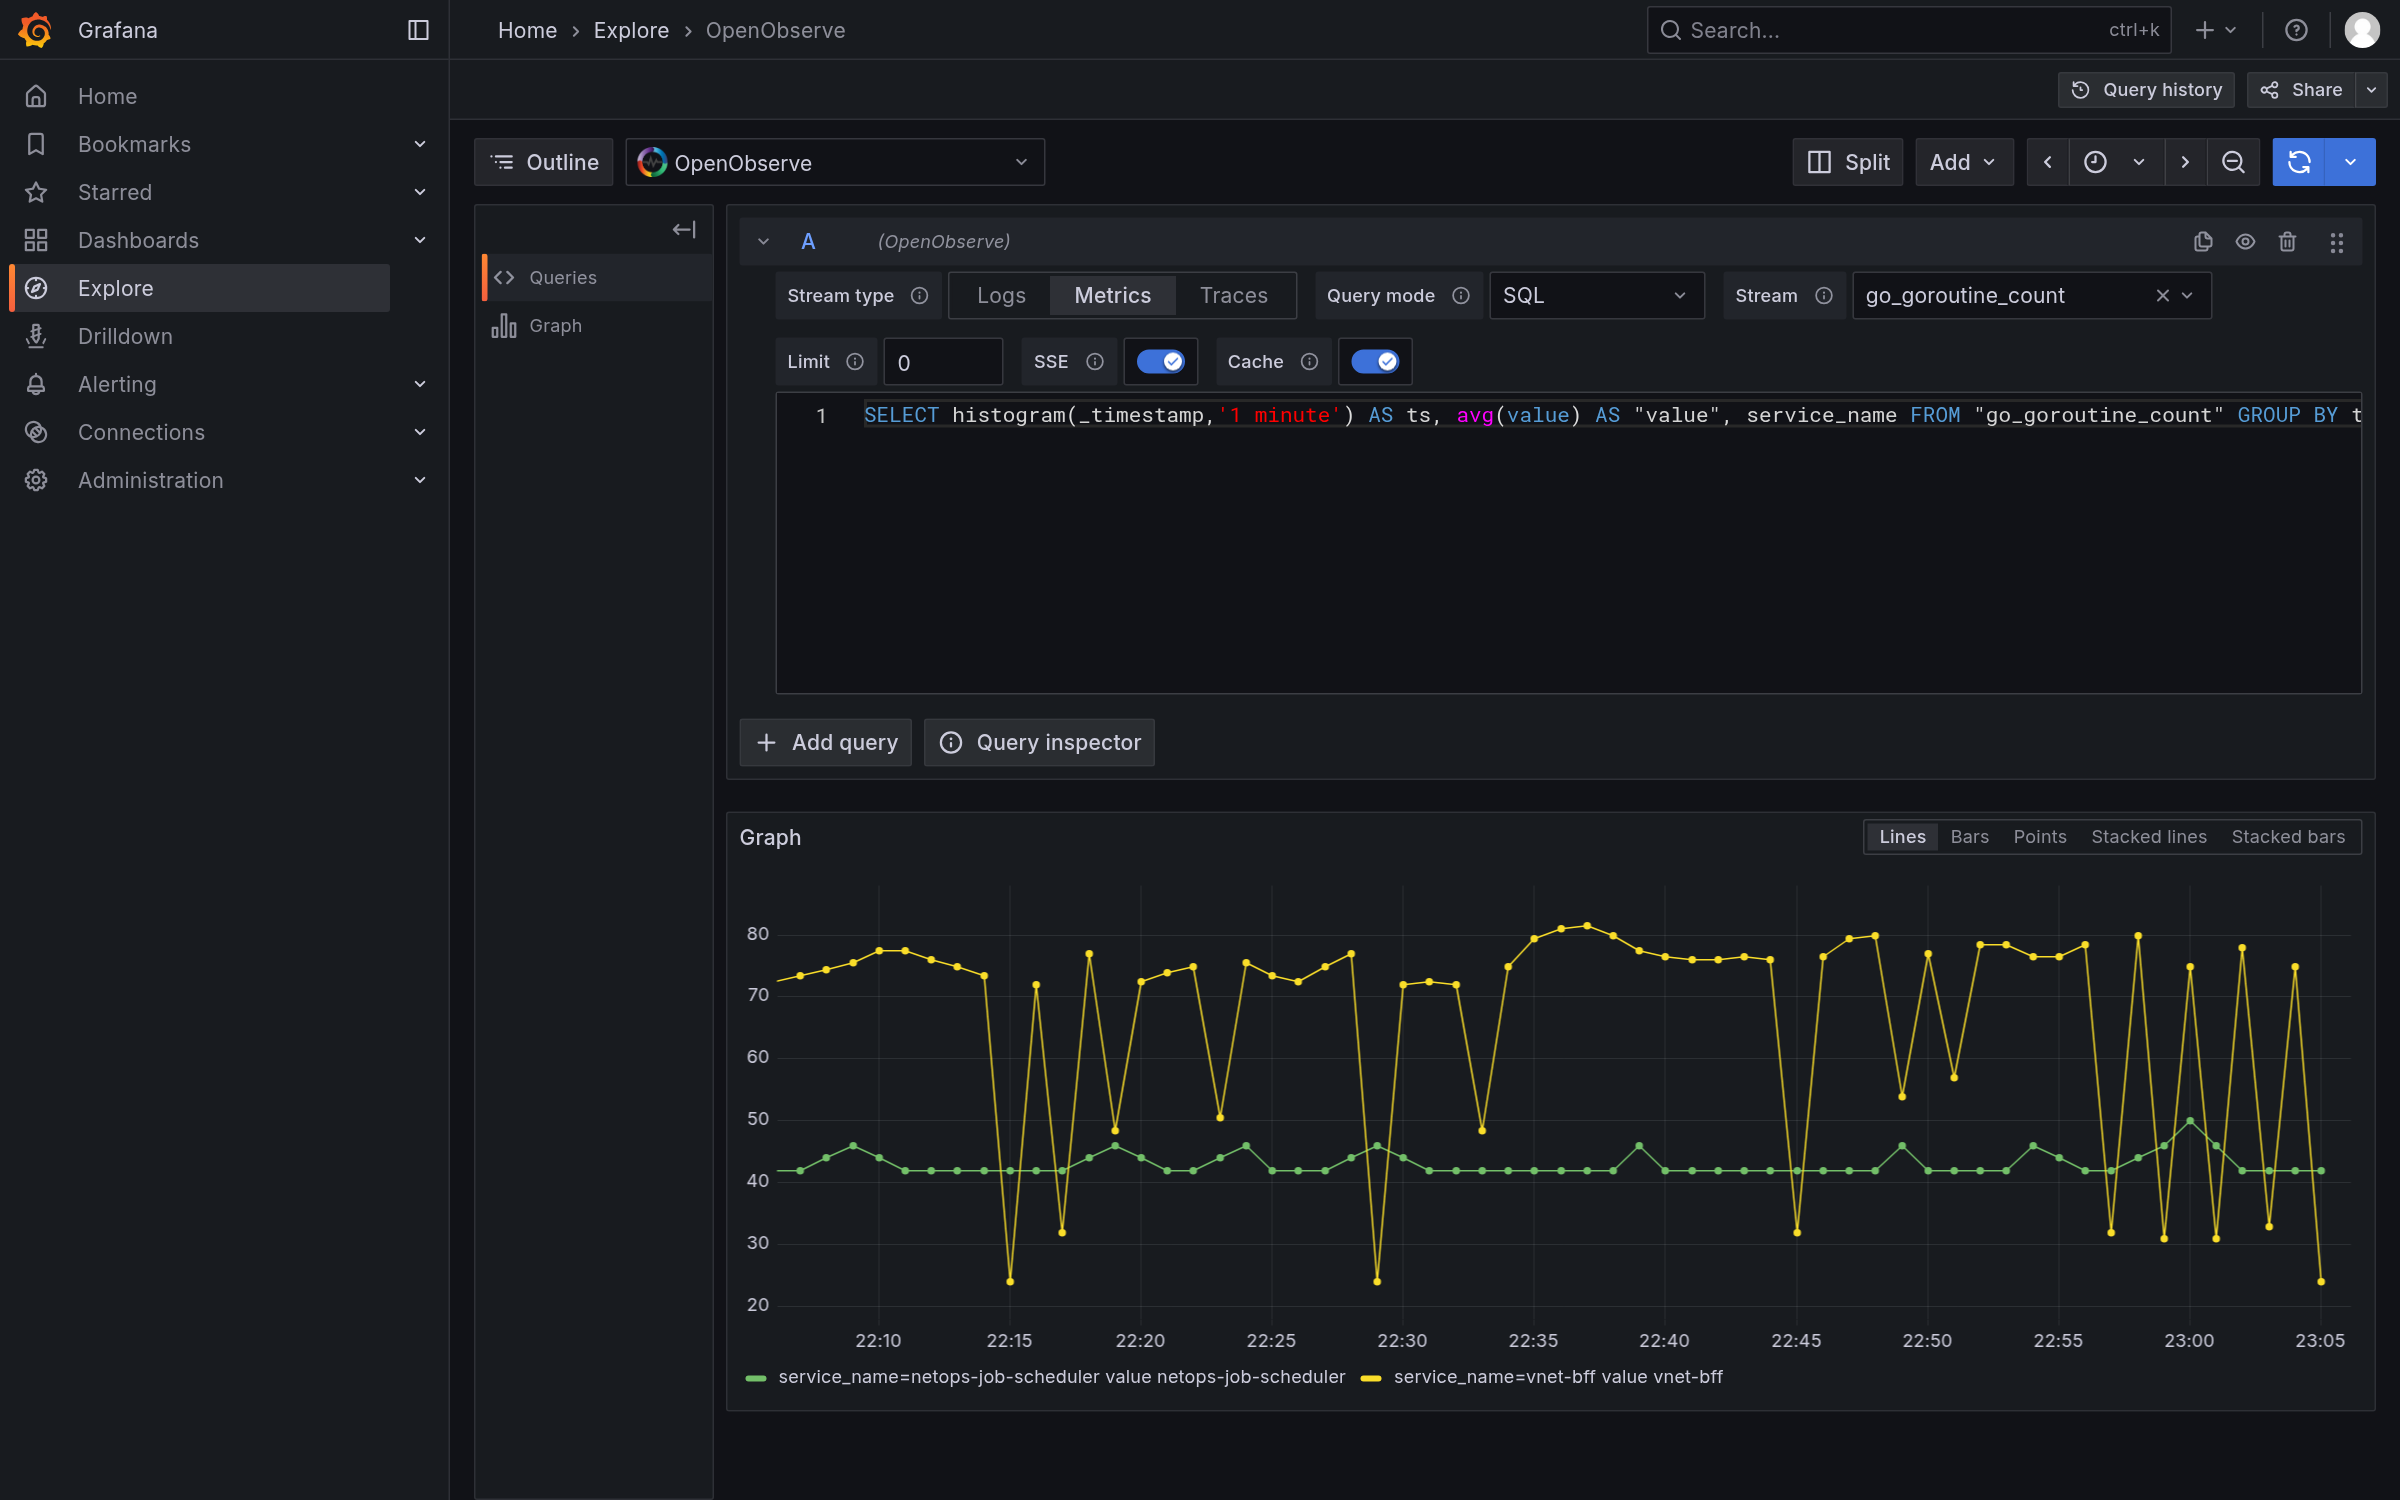
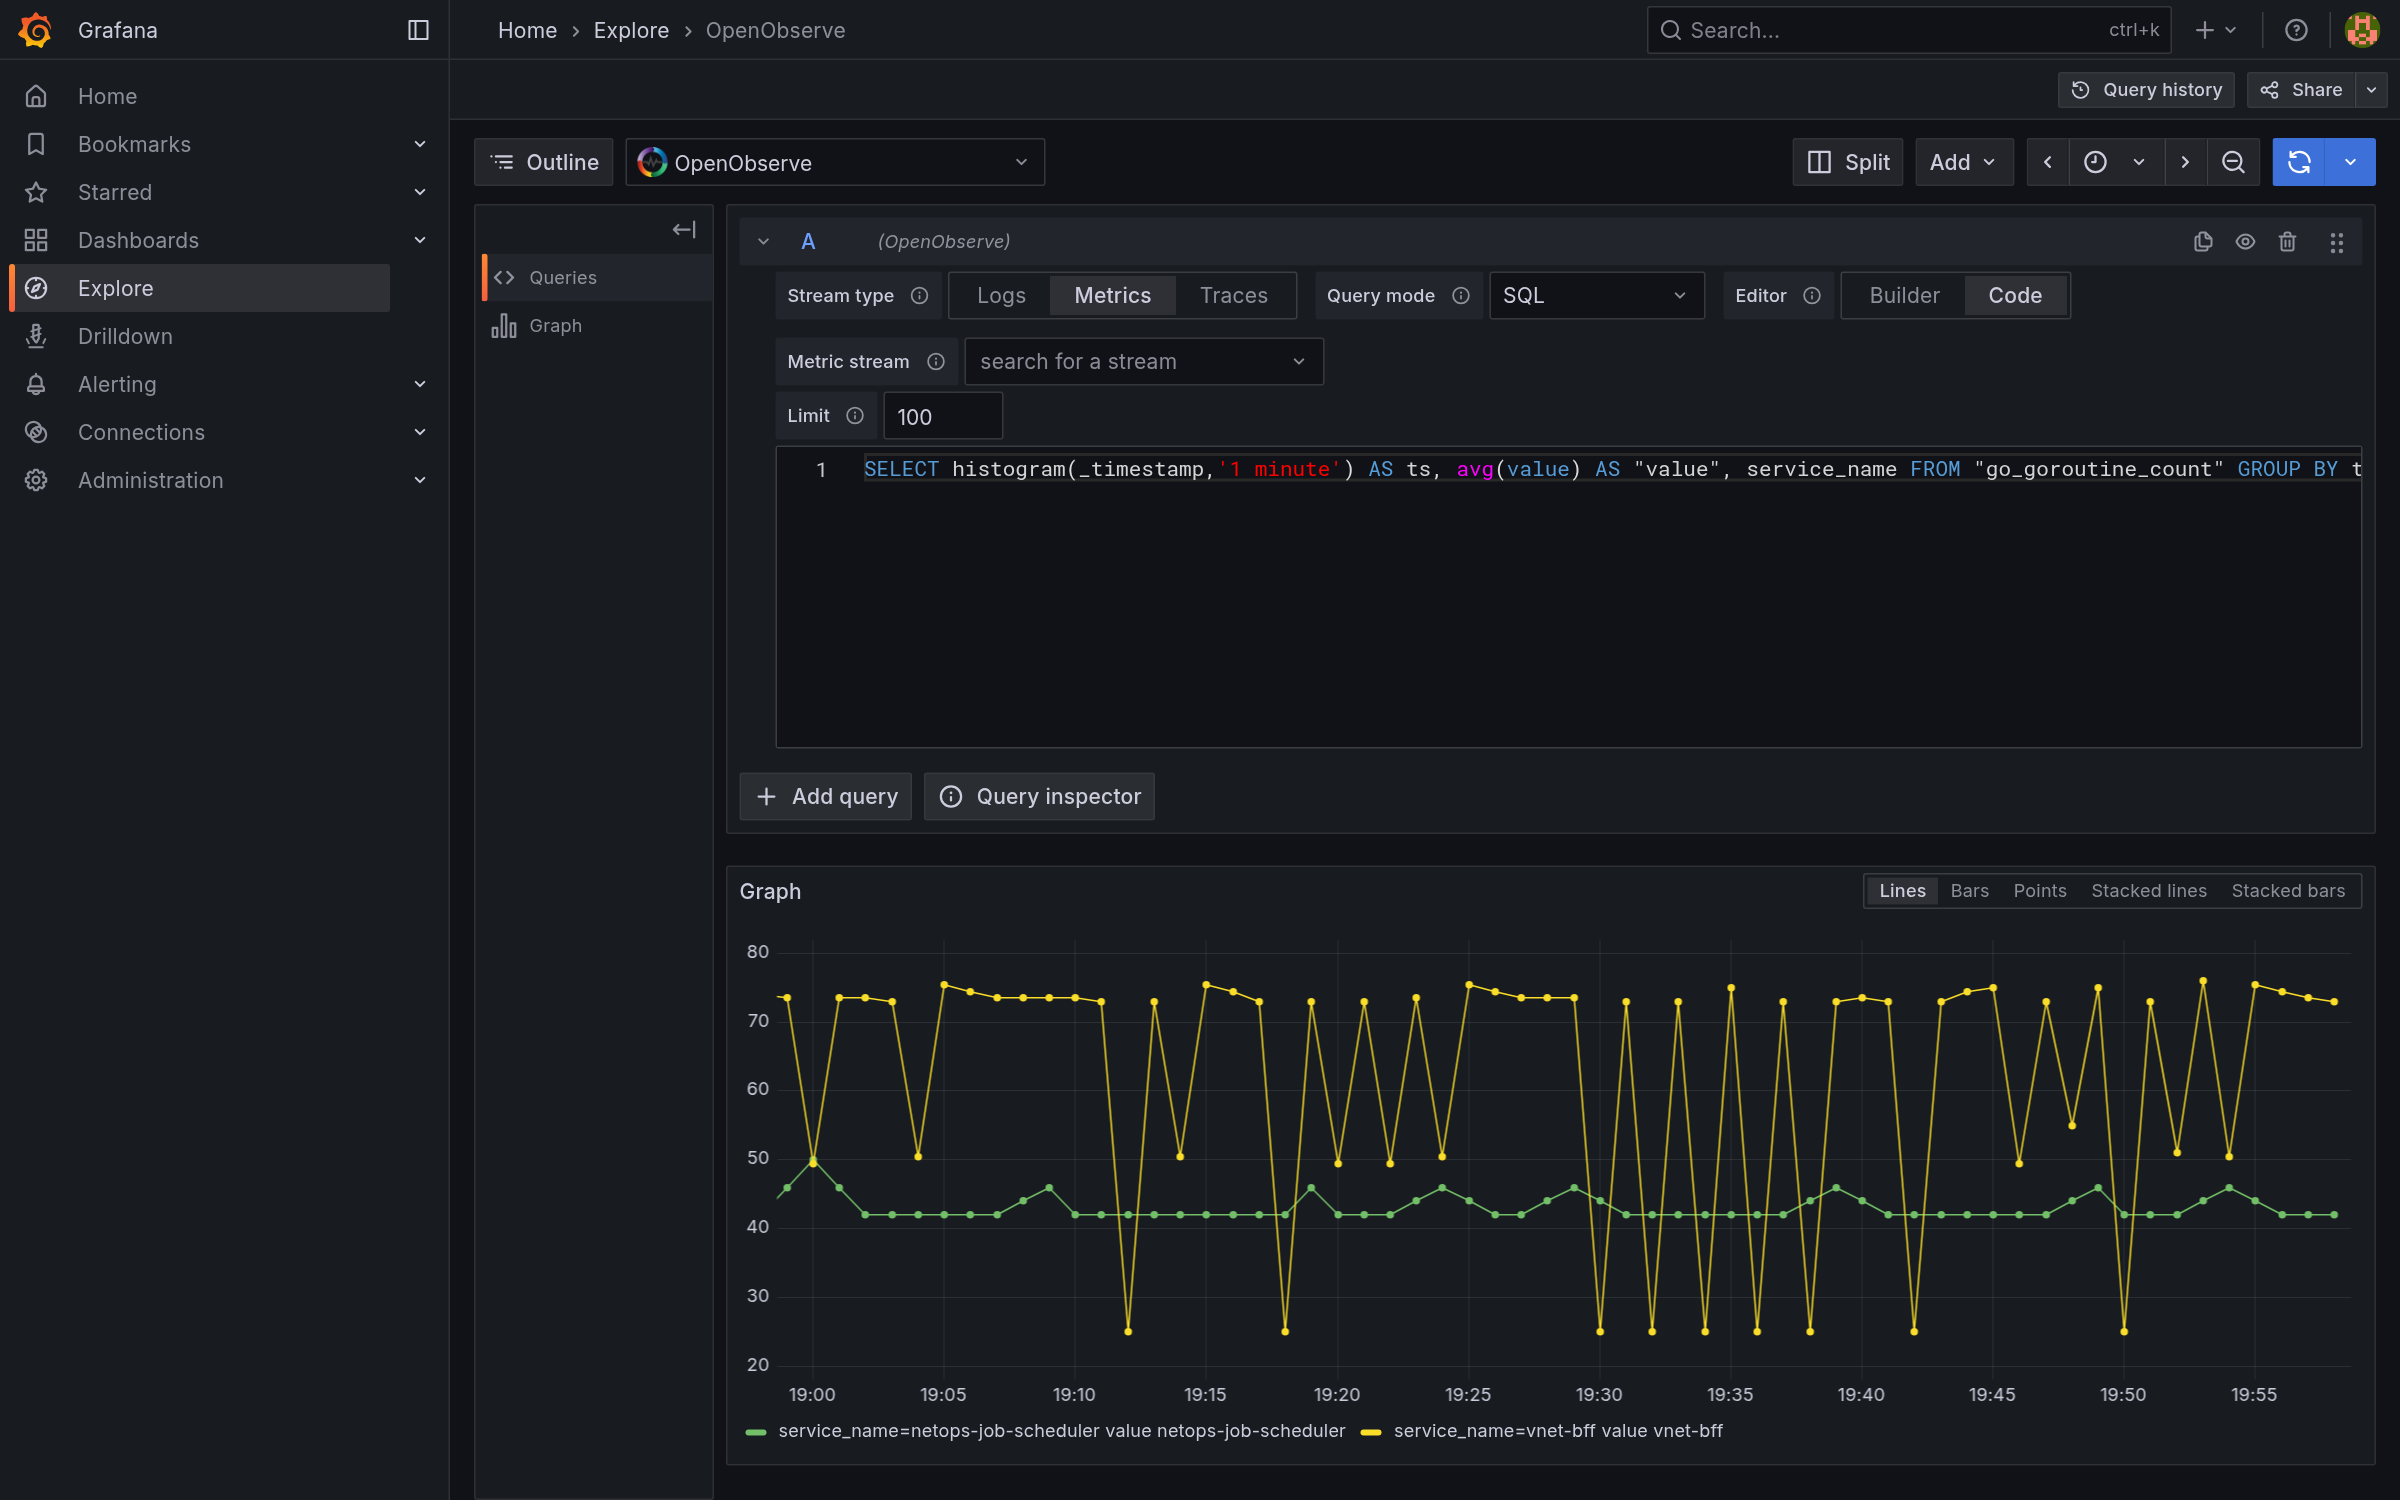
docs: lay the screenshots out two per row
The README stacked every screenshot at full width, so the page was one long
column of images and the reader had to scroll past a screen per feature.

Related screenshots now share a table row, which halves the vertical length
and puts comparisons side by side: logs next to the editor, SQL metrics next
to PromQL, the three trace query types in one row, variables next to their
editor, and the two settings tabs together.

Only the feature tour, the mixed dashboard and the ad-hoc filter stay full
width -- they are either a GIF or wide enough to lose detail at half size.

Also refreshed three stills that predated the Builder/Code change and still
showed the removed Format picker, including a 23-span waterfall.

diff --git a/README.md b/README.md
@@ -48,53 +48,39 @@ and the datasource settings.
 Log lines render with their level colour, and the details pane shows every
 original column as an attribute:
 
-![Logs in Explore](doc/screenshot/explore_logs.png)
+| Logs in Explore | The query editor |
+|---|---|
+| ![Logs in Explore](doc/screenshot/explore_logs.png) | ![Query editor](doc/screenshot/query_editor.png) |
 
-### The query editor
-
-Stream type, query mode (SQL / PromQL) and Builder or Code on the first row,
-then the stream, then a Raw/Aggregate switch for the builder. The limit comes
-last, after the inputs that shape the query. Builder and Code are independent,
-so choosing options never overwrites a statement you wrote:
-
-![Query editor](doc/screenshot/query_editor.png)
+The editor puts stream type, query mode (SQL / PromQL) and Builder or Code on
+the first row, then the stream, then a Raw/Aggregate switch for the builder. The
+limit comes last, after the inputs that shape the query. Builder and Code are
+independent, so choosing options never overwrites a statement you wrote.
 
 ### Metrics over SQL, with automatic series labels
 
 `GROUP BY service_name` becomes one labelled series per service — no transform,
-no SQL aliasing tricks:
+no SQL aliasing tricks. The same metric streams are queryable through
+OpenObserve's Prometheus compatible API, so `rate()`, `histogram_quantile()` and
+label matchers all work:
 
-![Metrics over SQL](doc/screenshot/explore_metrics_sql.png)
-
-### PromQL
-
-The same metric streams, queried through OpenObserve's Prometheus compatible API,
-so `rate()`, `histogram_quantile()` and label matchers all work:
-
-![PromQL](doc/screenshot/explore_promql.png)
+| Metrics over SQL | PromQL |
+|---|---|
+| ![Metrics over SQL](doc/screenshot/explore_metrics_sql.png) | ![PromQL](doc/screenshot/explore_promql.png) |
 
 ### Traces: three query types
 
 The trace editor mirrors Jaeger's three modes and the backend builds the SQL for
-each one.
+each one. **Search** lists the traces matching the filters, and clicking a trace
+id opens that trace inside Grafana. **TraceID** loads every span of one trace so
+Explore draws the native waterfall. **Graph** derives service-to-service call
+counts from the span parent links and renders them as a node graph, taking the
+callee from OpenObserve's inferred service name so a client span attributes to
+the system it calls rather than to the caller.
 
-**Search** lists the traces that match the filters (service, operation, tags,
-min/max duration). The columns match what Grafana's Jaeger plugin returns, and
-clicking a trace id opens that trace inside Grafana:
-
-![Trace search](doc/screenshot/trace_search.png)
-
-**TraceID** loads every span of one trace in start order, so Explore draws the
-native waterfall with real parent/child nesting:
-
-![Trace waterfall](doc/screenshot/trace_waterfall.png)
-
-**Graph** derives service-to-service call counts from the span parent links and
-renders them as a Grafana node graph. The callee is taken from OpenObserve's
-inferred service name, so a client span attributes to the system it calls rather
-than to the caller:
-
-![Trace graph](doc/screenshot/trace_graph.png)
+| Search | TraceID (waterfall) | Graph |
+|---|---|---|
+| ![Trace search](doc/screenshot/trace_search.png) | ![Trace waterfall](doc/screenshot/trace_waterfall.png) | ![Trace graph](doc/screenshot/trace_graph.png) |
 
 ### A dashboard with everything mixed
 
@@ -108,9 +94,9 @@ single data source:
 A variable is just a SQL query — the first column becomes the value. Multi-value
 selections are correctly quoted into `IN (...)`:
 
-![Dashboard variables](doc/screenshot/dashboard_variables.png)
-
-![Variable query editor](doc/screenshot/variable_query_editor.png)
+| Dashboard with variables | The variable query editor |
+|---|---|
+| ![Dashboard variables](doc/screenshot/dashboard_variables.png) | ![Variable query editor](doc/screenshot/variable_query_editor.png) |
 
 ### Ad-hoc filters
 
@@ -125,9 +111,9 @@ selected filter is injected server side as a SQL predicate — here
 Connection, authentication (basic auth or token), TLS, query limits and column
 mapping:
 
-![Datasource settings](doc/screenshot/config_editor.png)
-
-![Token authentication](doc/screenshot/config_editor_token.png)
+| Basic authentication | Token authentication |
+|---|---|
+| ![Datasource settings](doc/screenshot/config_editor.png) | ![Token authentication](doc/screenshot/config_editor_token.png) |
 
 ### Panel gallery
 
